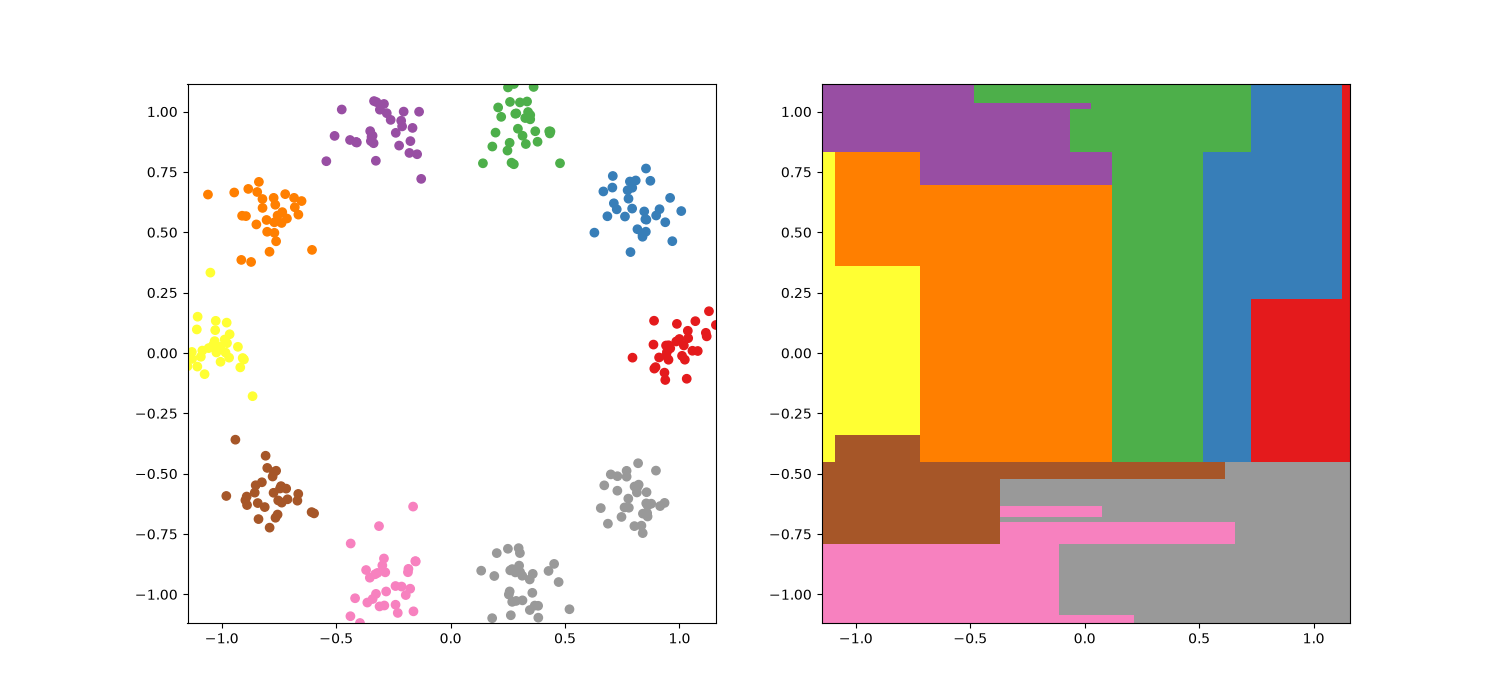
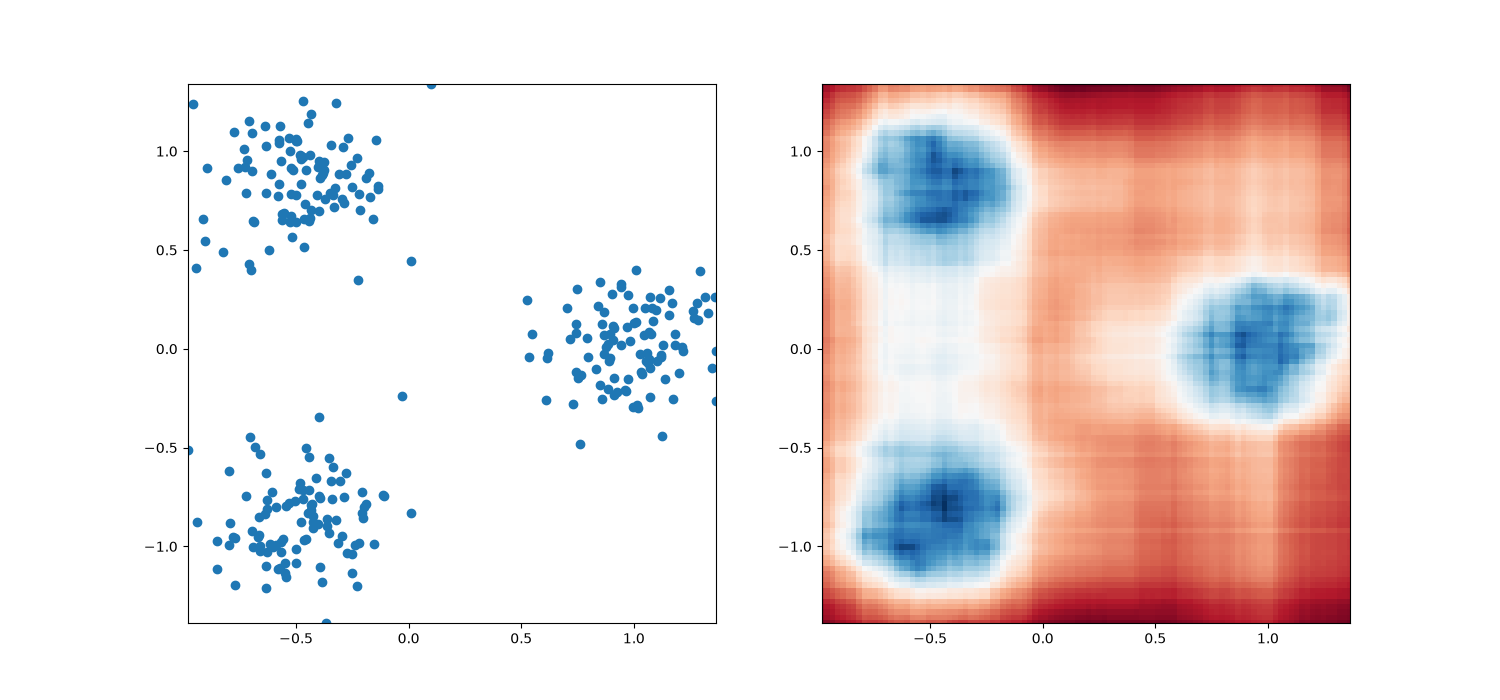
first commit

diff --git a/supervised_learning/decision_tree/11-main.py b/supervised_learning/decision_tree/11-main.py
@@ -1,0 +1,86 @@
+#!/usr/bin/env python3
+
+Isolation_Random_Forest = __import__('11-isolation_forest').Isolation_Random_Forest
+
+import numpy as np
+import matplotlib.pyplot as plt
+
+#                                     #########################
+#                                     # Generating examples : #
+#                                     #########################
+
+def circle_of_clouds(n_clouds, n_objects_by_cloud, radius=1, sigma=None, seed=0, angle=0):
+    """
+    This function returns a dataset made of 'n_clouds' classes.
+    Each class is a small gaussian cloud containing 'n_objects_by_cloud' points.
+    The centers of the clouds are regularly disposed on a circle of radius 'radius' (and center (0,0)).
+    The spreadth of the clouds is governed by 'sigma'.
+    """
+    rng = np.random.default_rng(seed)
+    if not sigma:
+        sigma = np.sqrt(2 - 2 * np.cos(2 * np.pi / n_clouds)) / 7
+
+    def rotate(x, k):
+        theta = 2 * k * np.pi / n_clouds + angle
+        m = np.matrix([[np.cos(theta), np.sin(theta)], [-np.sin(theta), np.cos(theta)]])
+        return np.matmul(x, m)
+
+    def cloud():
+        return (rng.normal(size=2 * n_objects_by_cloud) * sigma).reshape(n_objects_by_cloud, 2) + np.array([radius, 0])
+
+    def target():
+        return np.array(([[i] * n_objects_by_cloud for i in range(n_clouds)]), dtype="int32").ravel()
+
+    return np.concatenate([np.array(rotate(cloud(), k)) for k in range(n_clouds)], axis=0), target()
+
+#                                     #########################
+#                                     #    2D Visualization   #
+#                                     #########################
+
+def np_extrema(arr):
+    return np.min(arr), np.max(arr)
+
+
+def visualize_bassins(ax, model, x_min, x_max, y_min, y_max,cmap) :
+    """ color the points of a box
+    with the color corresponding to the class predicted by the model """
+    assert model.explanatory.shape[1]==2, "Not a 2D example"
+    X       = np.linspace(x_min, x_max, 100)
+    Y       = np.linspace(y_min, y_max, 100)
+    XX,YY   = np.meshgrid(X, Y)
+    XX_flat = XX.ravel()
+    YY_flat = YY.ravel()
+    Z       = model.predict(np.vstack([XX_flat, YY_flat]).T)
+    ax.pcolormesh(XX, YY, Z.reshape([100,100]), cmap=cmap,shading='auto')
+
+
+def visualize_training_dataset_2D(ax, model, cmap):
+    """ color the points of the 'explanatory' array
+    with the color corresponding to the class stored in 'target' """
+    ax.scatter(model.explanatory[:, 0], model.explanatory[:, 1], c=model.target, cmap=cmap)
+
+
+def visualize_model_2D(model, cmap=plt.cm.Set1):
+    """ gather the results of visualize_bassins and visualize_training_dataset_2D """
+    assert model.explanatory.shape[1] == 2, "Not a 2D example"
+
+    x_min, x_max = np_extrema(model.explanatory[:, 0])
+    y_min, y_max = np_extrema(model.explanatory[:, 1])
+    fig, axes = plt.subplots(1, 2, figsize=(15, 7))
+    for ax in axes:
+        ax.set_xlim(x_min, x_max)
+        ax.set_ylim(y_min, y_max)
+    visualize_training_dataset_2D(axes[0], model, cmap)
+    visualize_bassins(axes[1], model, x_min, x_max, y_min, y_max, cmap)
+    plt.savefig("bassins2.png")
+    plt.show()
+
+#Main
+explanatory,_ = circle_of_clouds(3,100,sigma=.2)
+IRF=Isolation_Random_Forest(max_depth=15)
+IRF.fit(explanatory,verbose=1)
+suspects,depths = IRF.suspects(explanatory,n_suspects=3)
+print("suspects :",suspects)
+print("depths of suspects :",depths)
+#Visualization  
+visualize_model_2D(IRF,cmap='RdBu')

diff --git a/supervised_learning/decision_tree/11-isolation_forest.py b/supervised_learning/decision_tree/11-isolation_forest.py
@@ -1,0 +1,51 @@
+#!/usr/bin/env python3
+"""Isolation Random Forest module"""
+import numpy as np
+
+Isolation_Random_Tree = __import__('10-isolation_tree').Isolation_Random_Tree
+
+
+class Isolation_Random_Forest():
+    """Class that represents an Isolation Random Forest"""
+
+    def __init__(self, n_trees=100, max_depth=10, min_pop=1, seed=0):
+        """Initializes the Isolation Random Forest"""
+        self.numpy_predicts = []
+        self.target = None
+        self.numpy_preds = None
+        self.n_trees = n_trees
+        self.max_depth = max_depth
+        self.seed = seed
+
+    def predict(self, explanatory):
+        """Calculates the mean depth for each point across all trees"""
+        predictions = np.array([f(explanatory) for f in self.numpy_preds])
+        return predictions.mean(axis=0)
+
+    def fit(self, explanatory, n_trees=100, verbose=0):
+        """Trains the isolation random forest"""
+        self.explanatory = explanatory
+        self.numpy_preds = []
+        depths = []
+        nodes = []
+        leaves = []
+        for i in range(n_trees):
+            T = Isolation_Random_Tree(max_depth=self.max_depth,
+                                      seed=self.seed + i)
+            T.fit(explanatory)
+            self.numpy_preds.append(T.predict)
+            depths.append(T.depth())
+            nodes.append(T.count_nodes())
+            leaves.append(T.count_nodes(only_leaves=True))
+        if verbose == 1:
+            print(f""" Training finished.
+    - Mean depth                    : {np.array(depths).mean()}
+    - Mean number of nodes          : {np.array(nodes).mean()}
+    - Mean number of leaves         : {np.array(leaves).mean()}""")
+
+    def suspects(self, explanatory, n_suspects):
+        """Returns the n_suspects rows in explanatory that have
+        the smallest mean depth"""
+        depths = self.predict(explanatory)
+        indices = np.argsort(depths)[:n_suspects]
+        return explanatory[indices], depths[indices]
